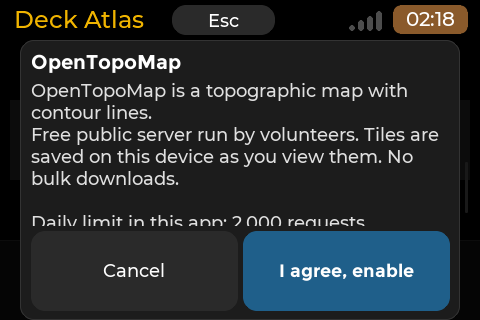
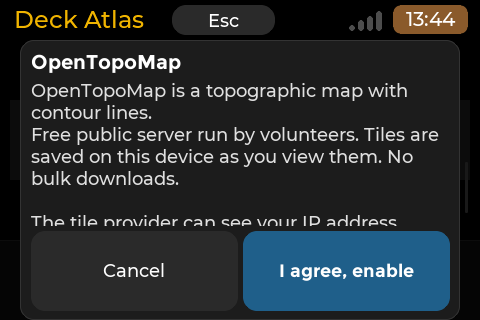
deck-atlas: privacy line back in the terms dialog
Every online source's terms text (the shipped ones and an unknown id) has its own paragraph again: the tile provider
can see your IP address when this device fetches tiles; tiles already saved on the SD card are not fetched again. The
source tests check it; the README describes it; the terms screenshots are regenerated from the synthetic test tiles
(the body scrolls at 320x480, the buttons stay visible).

Claude-Session: https://claude.ai/code/session_01DZirtLRRFpxSjax5Qp5ZSW

Changed region(s): [[0.0625, 0.6562, 0.8438, 0.7188], [0.8438, 0.0312, 0.9688, 0.0938]]

diff --git a/apps/deck-atlas/tests/test_sources.cpp b/apps/deck-atlas/tests/test_sources.cpp
@@ -114,6 +114,9 @@ void test_sources()
     CHECK_EQ(daily_limit_line(0), std::string(""));
     /* the dialog text comes from the app's own table: every shipped source has text, none of it internal wording */
     const char *shipped[] = {"opentopomap", "thunderforest", "geoapify"};
+    /* the privacy line: in every online source's text, its own paragraph */
+    const std::string privacy = "\n\nThe tile provider can see your IP address when this device fetches tiles; tiles "
+                                "already saved on the SD card are not fetched again.\n\n";
     for (const char *id : shipped) {
         const ProviderTerms pt = provider_terms(id);
         CHECK(!pt.what.empty());
@@ -127,6 +130,7 @@ void test_sources()
         CHECK(tt.find("Daily limit in this app: 1,500 requests") != std::string::npos);
         CHECK(tt.find("Check the provider's current terms before relying on this.\n" + pt.terms_url) != std::string::npos);
         CHECK(tt.find("Map data (c) somebody") != std::string::npos);
+        CHECK(tt.find(privacy) != std::string::npos);
     }
     const std::string t = terms_text("OpenTopoMap", "Map style CC-BY-SA", provider_terms("opentopomap"), 2000);
     CHECK(t.find("Free public server run by volunteers. Tiles are saved on this device as you view them. No bulk downloads.") !=
@@ -139,6 +143,7 @@ void test_sources()
     const std::string g = terms_text("My Server", "", provider_terms("my-own"), 0);
     CHECK(g.find("My Server is an online map server.") == 0);
     CHECK(g.find("Daily limit") == std::string::npos);
+    CHECK(g.find(privacy) != std::string::npos);
     CHECK(g.find("Check the provider's current terms before relying on this.") != std::string::npos);
     CHECK(g.find("http") == std::string::npos);
     CHECK(g.find("054") == std::string::npos && g.find("unverified") == std::string::npos);

diff --git a/apps/deck-atlas/src/core/source_model.cpp b/apps/deck-atlas/src/core/source_model.cpp
@@ -135,6 +135,9 @@ std::string terms_text(const std::string &title, const std::string &licence, con
              "Tiles are saved on this device as you view them.");
     else
         para(terms.what + "\n" + terms.rules);
+    /* privacy: every online source, known or not */
+    para("The tile provider can see your IP address when this device fetches tiles; tiles already saved on the SD "
+         "card are not fetched again.");
     para(daily_limit_line(daily_cap));
     para("Check the provider's current terms before relying on this." +
          (terms.terms_url.empty() ? std::string() : "\n" + terms.terms_url));

diff --git a/apps/deck-atlas/README.md b/apps/deck-atlas/README.md
@@ -57,7 +57,8 @@ Three tabs, switched by the strip at the bottom (or Tab / Shift+Tab):
     Another app, Cache full) and, for the keyed ones, a key row (*Key saved* / *No key*). A tap on a source's row
     switches it: a source that needs a key and has none opens its **key page** first; the first time a source is
     switched on, the **terms dialog** shows its name, the app's own plain-language text for that source (what it is and its rules in a
-    sentence or two), "Daily limit in this app: N requests", "Check the provider's current terms before relying on
+    sentence or two), a privacy line (the tile provider can see your IP address when tiles are fetched; tiles already
+    saved on the SD card are not fetched again), "Daily limit in this app: N requests", "Check the provider's current terms before relying on
     this." with the provider's address as plain text, and the map data credit; **Cancel** or
     **I agree, enable**. The acceptance is remembered per source; switching it off and on again does not ask again.
     Switching a source on shows it on the map. The area download is not offered (the engine's phase 0.2).
